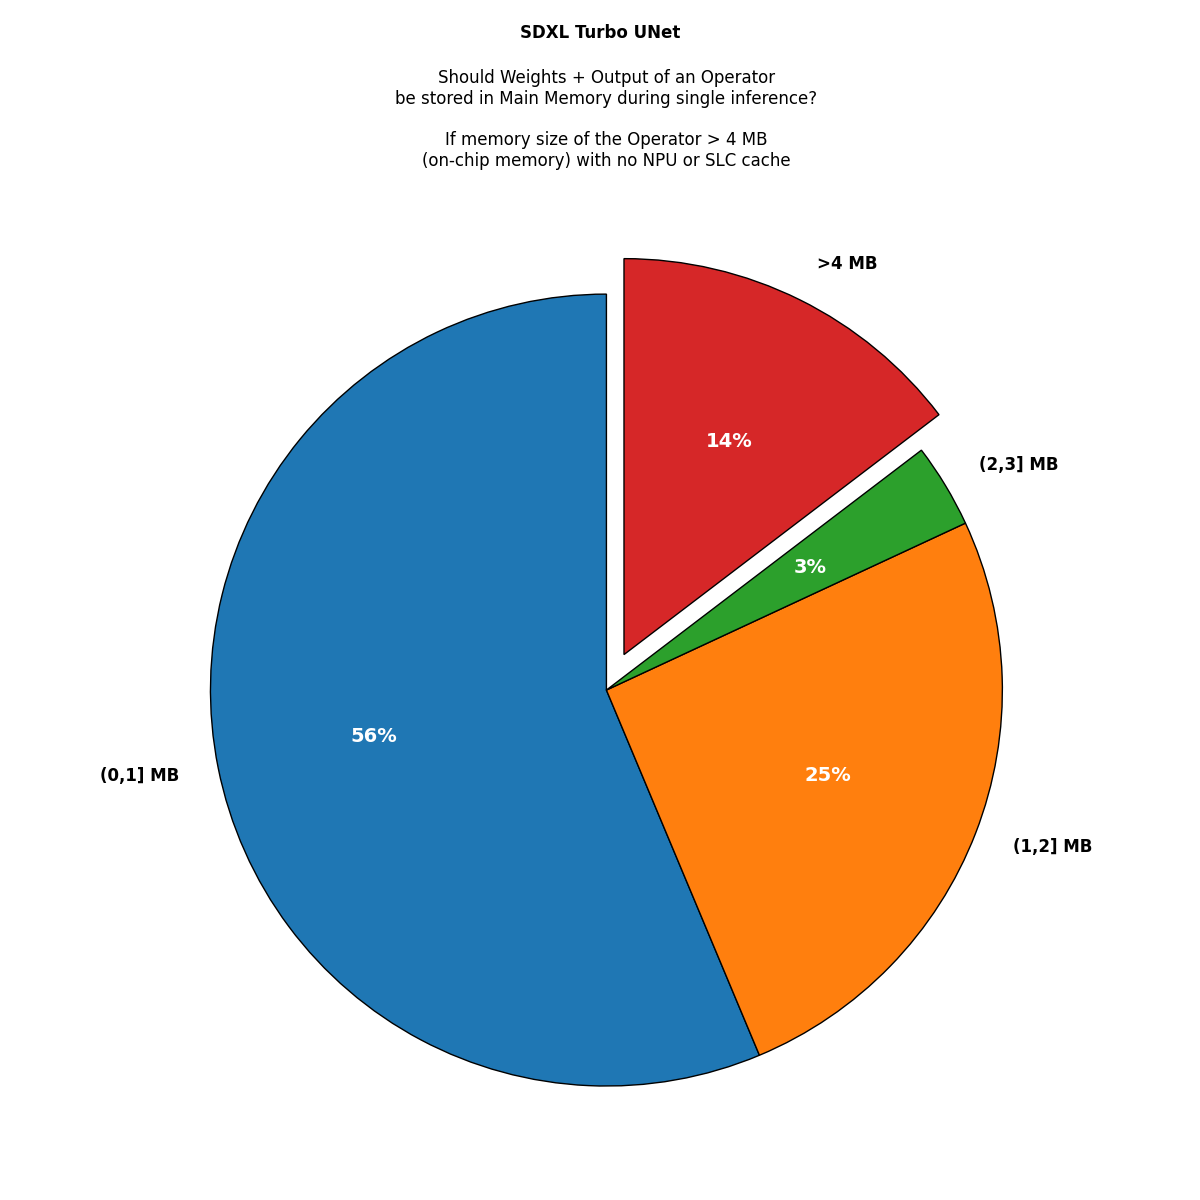
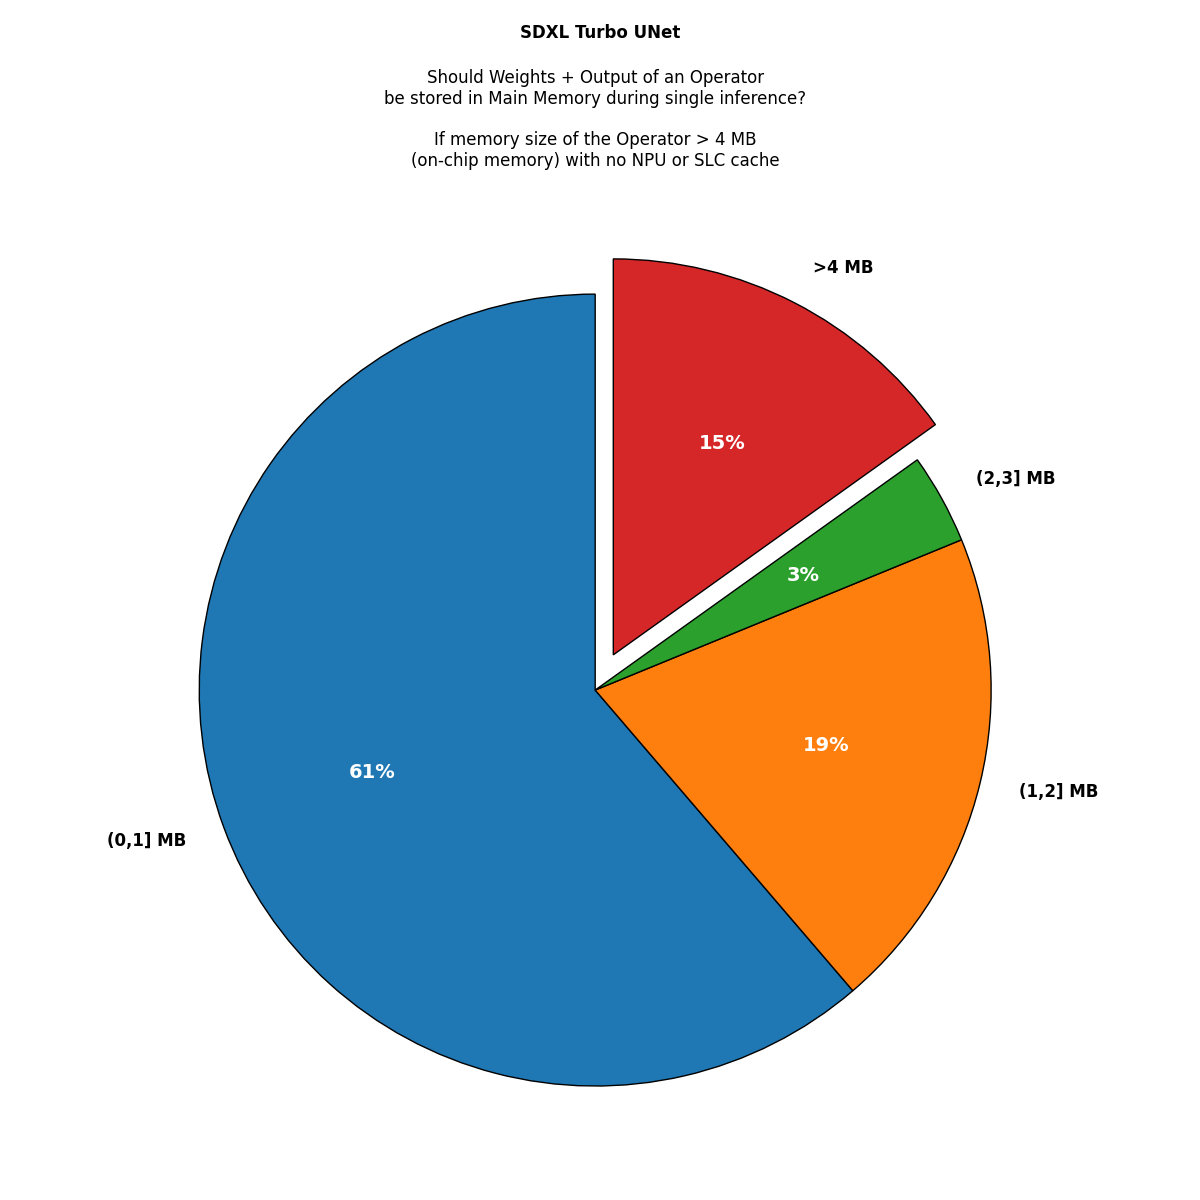
minor changes

diff --git a/scripts/onnxProfile/onnx_profiling_analysis.py b/scripts/onnxProfile/onnx_profiling_analysis.py
@@ -67,7 +67,7 @@ for i, element in enumerate(total_memory):
     else:
         memory_usage[key] += 1
 
-        if math.isclose(output_memory[i-1], element, rel_tol=1e-3):
+        if math.isclose(output_memory[i-1], element, rel_tol=1e-1):
             consecutive_output_memory_usage[key] += 1
 
 
